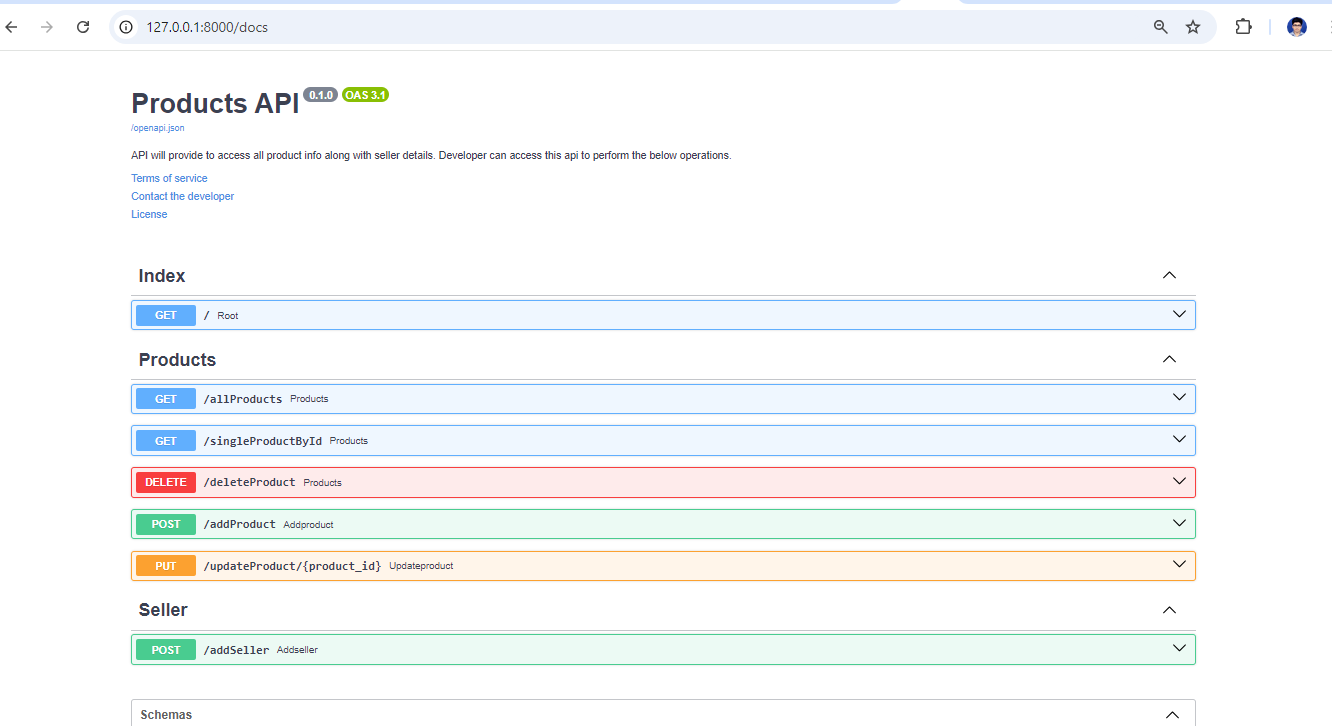
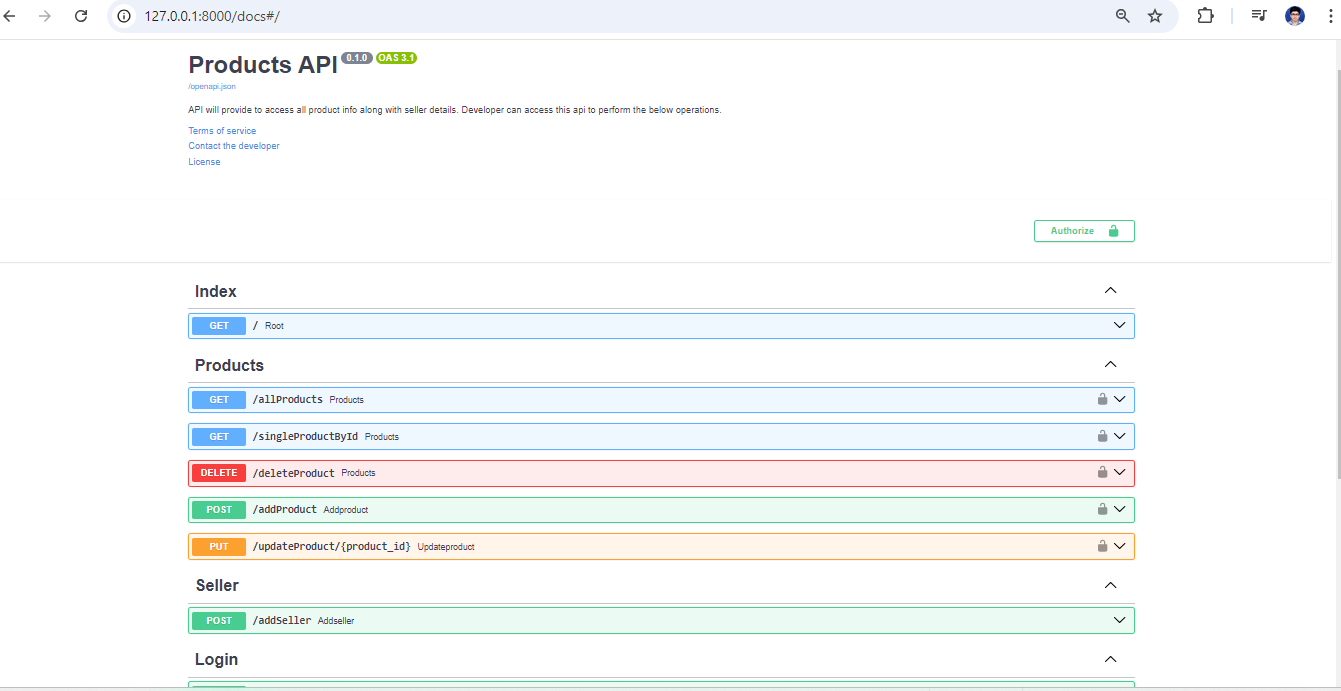
OAuth, JWT token creation, DB changes and env creation, All README updates.

diff --git a/Product/routers/product.py b/Product/routers/product.py
@@ -1,5 +1,7 @@
 from fastapi import APIRouter, Response, HTTPException
 from typing import List
+
+from .login import get_current_user
 from .. import schemas
 from .. import models
 from fastapi.params import Depends
@@ -14,7 +16,7 @@ router = APIRouter(
 
 # Get All Product Details
 @router.get("/allProducts", response_model=List[schemas.CustomDisplay], status_code=201)
-async def products(db: Session = Depends(getDB)):
+async def products(db: Session = Depends(getDB), current_user: schemas.Seller = Depends(get_current_user)):
     product_ = db.query(models.Product).all()
     if not product_:
         raise HTTPException(status_code=status.HTTP_404_NOT_FOUND, detail="Product not found")
@@ -23,7 +25,7 @@ async def products(db: Session = Depends(getDB)):
 
 # Get Product Details by ID Value
 @router.get("/singleProductById", response_model=schemas.CustomDisplay)
-async def products(product_id, response: Response, db: Session = Depends(getDB)):
+async def products(product_id, response: Response, db: Session = Depends(getDB), current_user: schemas.Seller = Depends(get_current_user)):
     product_id = db.query(models.Product).filter_by(id=product_id).first()
     if not product_id:
         raise HTTPException(status_code=status.HTTP_404_NOT_FOUND, detail='Product not found')
@@ -32,7 +34,7 @@ async def products(product_id, response: Response, db: Session = Depends(getDB))
 
 # Remove a specific Product by ID value
 @router.delete("/deleteProduct")
-async def products(db: Session = Depends(getDB), product_id: int = None):
+async def products(db: Session = Depends(getDB), product_id: int = None, current_user: schemas.Seller = Depends(get_current_user)):
     product_id = db.query(models.Product).filter_by(id=product_id).delete(synchronize_session=False)
     if not product_id:
         raise HTTPException(status_code=status.HTTP_404_NOT_FOUND, detail='Product not found')
@@ -42,7 +44,7 @@ async def products(db: Session = Depends(getDB), product_id: int = None):
 
 # Add New Product in DB Using Postman call/ FastAPI Docs.
 @router.post('/addProduct')
-async def addProduct(product: schemas.Product, db: Session = Depends(getDB)):
+async def addProduct(product: schemas.Product, db: Session = Depends(getDB), current_user: schemas.Seller = Depends(get_current_user)):
     new_product = models.Product(name=product.name, price=product.price, description=product.description,
                                  seller_id=product.seller_id)
     db.add(new_product)
@@ -53,7 +55,7 @@ async def addProduct(product: schemas.Product, db: Session = Depends(getDB)):
 
 # Update a records based on ID value
 @router.put('/updateProduct/{product_id}')
-async def updateProduct(product_id: int, product: schemas.Product, db: Session = Depends(getDB)):
+async def updateProduct(product_id: int, product: schemas.Product, db: Session = Depends(getDB), current_user: schemas.Seller = Depends(get_current_user)):
     product_id = db.query(models.Product).filter_by(id=product_id)
     if not product_id.first():
         raise HTTPException(status_code=status.HTTP_404_NOT_FOUND, detail='Product not found')

diff --git a/Product/routers/login.py b/Product/routers/login.py
@@ -1,0 +1,67 @@
+import os
+from datetime import datetime, timedelta
+from fastapi import Depends, APIRouter, Depends, HTTPException
+from fastapi.security import OAuth2PasswordBearer
+from fastapi.security.oauth2 import OAuth2PasswordRequestForm
+from jose import jwt, JWTError
+from .. import schemas, database, models
+from fastapi.params import Depends
+from sqlalchemy.orm import Session
+from ..database import getDB
+from starlette import status
+from passlib.context import CryptContext
+from dotenv import load_dotenv
+
+load_dotenv()
+SECRET_KEY = os.environ.get("SECRET_KEY")
+ALGORITHM = os.environ.get("ALGORITHM")
+ACCESS_TOKEN_EXPIRE_MINUTES = 10
+router = APIRouter(
+    tags=['Login']
+)
+
+pwd_context = CryptContext(schemes=["bcrypt"], deprecated="auto")
+oauth2_scheme = OAuth2PasswordBearer(tokenUrl="/login")
+
+
+def generate_token(data: dict):
+    to_encode = data.copy()
+    expire = datetime.utcnow() + timedelta(minutes=ACCESS_TOKEN_EXPIRE_MINUTES)
+    to_encode.update({"exp": expire})
+    encoded_jwt = jwt.encode(to_encode, SECRET_KEY, ALGORITHM)
+    return encoded_jwt
+
+
+@router.post('/login')
+async def login(request: OAuth2PasswordRequestForm = Depends(), db: Session = Depends(getDB)):
+    user = db.query(models.Seller).filter(models.Seller.username == request.username).first()
+    if not user:
+        raise HTTPException(status_code=status.HTTP_404_NOT_FOUND, detail='Incorrect username or password or username '
+                                                                          'not found')
+    if not pwd_context.verify(request.password, user.password):
+        raise HTTPException(status_code=status.HTTP_404_NOT_FOUND, detail='Incorrect password')
+
+    # Gen JWT token
+    access_token = generate_token(
+        data={
+            "sub": user.username
+        })
+
+    return {"access_token": access_token, "token_type": "bearer"}
+
+
+def get_current_user(token: str = Depends(oauth2_scheme)):
+    credentials_exception = HTTPException(
+        status_code=status.HTTP_401_UNAUTHORIZED,
+        detail="Could not validate credentials",
+        headers={"WWW-Authenticate": "Bearer"}
+    )
+    try:
+        payload = jwt.decode(token, SECRET_KEY, algorithms=[ALGORITHM])
+        username: str = payload.get("sub")
+        if username is None:
+            raise HTTPException(status_code=status.HTTP_404_NOT_FOUND, detail='Incorrect username')
+        token_data = schemas.TokenData(username=username)
+
+    except JWTError:
+        raise credentials_exception

diff --git a/Product/main.py b/Product/main.py
@@ -3,6 +3,7 @@ from . import models
 from .database import engine_n, SessionLocal
 from .routers import product
 from .routers import seller
+from .routers import login
 
 app = FastAPI(
     title='Products API',
@@ -29,5 +30,6 @@ async def root():
 
 app.include_router(product.router)
 app.include_router(seller.router)
+app.include_router(login.router)
 
 models.Base.metadata.create_all(bind=engine_n)

diff --git a/Product/schemas.py b/Product/schemas.py
@@ -1,3 +1,5 @@
+from typing import Optional
+
 from pydantic import BaseModel
 
 
@@ -35,3 +37,17 @@ class CustomDisplay(BaseModel):
 
     class Config:
         orm_mode = True
+
+
+class Login(BaseModel):
+    username: str
+    password: str
+
+
+class Token(BaseModel):
+    access_token: str
+    token_type: str
+
+
+class TokenData(BaseModel):
+    username: Optional[str] = None

diff --git a/Product/models.py b/Product/models.py
@@ -23,3 +23,4 @@ class Seller(Base):
     phone = Column(String)
     address = Column(String)
     products = relationship('Product', back_populates='seller')
+

diff --git a/README.MD b/README.MD
@@ -1,18 +1,32 @@
->The below project is still on development phase. Kindly ignore the missing details as of now.Thanks for your co-operation.
-
 ## Project Objective:
-
+Develop a Product-Seller module using FASTAPI framework with OAuth2 validation. 
 ## Project Overview:
+This project has been developed in FASTAPI Framework. There are two modules associated with this project(Like Product and Seller). JWT token creation and OAuth validation has been implemented
+as a security features. SQLAlchemy and Pydantic module are backend database/orm technique to store and manipulate data flow over in the entire project.Additionally, the Router module has been added to make API more robust.
+
+FASTAPI has its own auto-documentation feature which helps end programmer to reuse all API endpoints without any issue.
 
 ## Project Architecture:
-* Python Version: 3.11.9
+This project has built on Python Version: 3.11.9 with the below packages. The project has been divided into multiple subpart/module to make it more robust.
+1. login || product || seller → these three modules are present inside the router package which has been called explicitly from main.py.
+2. database → This module has all details about database connection, DB Local Session creation.
+3. schemas → This pydantic module contains all orm details and custom submodule creation.
+4. models → This module has two different table creation details.
+5. main → This is the start of the program.
+6. .env → This file has all config details.
 
 ## Installation Guideline:
-All the required packages has been listed inside 'requirements.txt' file.
-* fastapi
-* sqlalchemy
+All the required packages have been listed inside 'requirements.txt' file.
+* fastapi~=0.112.2
+* sqlalchemy~=2.0.33
 * uvicorn
-* pydantic
+* pydantic~=2.8.2
+* starlette~=0.38.4
+* bcrypt~=4.2.0
+* passlib~=1.7.4
+* python-jose~=3.3.0 
+* python-dotenv~=1.0.1
+* python-multipart~=0.0.9
 
 Execute the below command in your active directory to install all packages for this project.
 >> pip install -r requirements.txt
@@ -25,12 +39,14 @@ This product API is using SQLAlchemy orm modules to handle all requests.
 > 1. ** products ** : This table is holding all product related information. "sellers.id" is the ForeignKey of product table. 
 > 2. ** sellers **: This table is holding all seller information.
 ## Commits Details:
-All the project commit has been drafted in the below attached link.
+All the project commits have been drafted in the below-attached link.
 https://github.com/sumantas98/MiniProjectFASTAPI/commits?author=sumantas98&since=2024-08-31&until=
 
 ## Additional Information & API Snippet:
 ![img.png](img.png)
 
-## TestCases:
-
-## Mandatory Notes:
+## Execution Steps:
+1. Create a new virtual environment.
+2. Install all above packages along with python.
+3. run the below command in cmd from project main directory else set up the entire project in pyCharm 
+>> python.exe -m uvicorn Product.main:app --reload 
